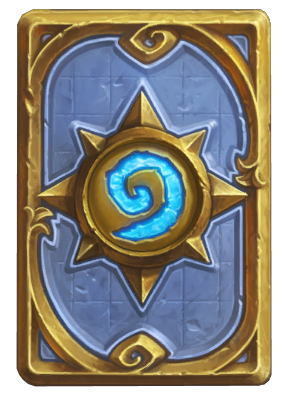
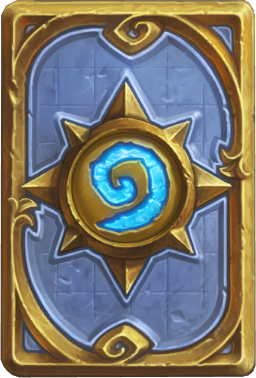
Fixed the card image for SearchByName Screen and bottom tab navigator thumbnails.

diff --git a/Screens/SearchByName.js b/Screens/SearchByName.js
@@ -6,9 +6,7 @@ import { options } from '../RequestOptionsAndDecks';
 
 export default function SearchByName({navigation}) {
    const [cardName, setCardName] = useState('');
-   const [cardImage, setCardImage] = useState(
-      'https://static.vecteezy.com/system/resources/previews/005/337/799/non_2x/icon-image-not-found-free-vector.jpg'
-   );
+   const [cardImage, setCardImage] = useState(require('../assets/cardBack2.png'));
    const [card, setCard] = useState({});
    const [loading, setLoading] = useState(false);
    const [request, setRequest] = useState(false);
@@ -17,7 +15,7 @@ export default function SearchByName({navigation}) {
    const requestAPI = async () => {
       //Start loading.
       setLoading(true);
-      setCardImage('https://static.vecteezy.com/system/resources/previews/005/337/799/non_2x/icon-image-not-found-free-vector.jpg');
+      setCardImage(require('../assets/cardBack2.png'));
       setRequest(false);
 
       //Verify card name.
@@ -32,7 +30,7 @@ export default function SearchByName({navigation}) {
                for(let i=0; i<data.length; i++){
                   if(data[i].hasOwnProperty('img')){
                      setCard(data[i]);
-                     setCardImage(data[i].img);
+                     setCardImage({ uri: data[i].img});
                      setRequest(true);
                      break;
                   }
@@ -74,8 +72,8 @@ export default function SearchByName({navigation}) {
                   style={ styles.cardConteiner }
                   onPress={ handleCardPress }>
                   <Image
-                     style={{ width: '80%', height: '80%' }}
-                     source={{ uri: cardImage }}
+                     style={ styles.cardImage }
+                     source={ cardImage }
                      resizeMode="contain"
                   />
                </TouchableOpacity>

diff --git a/Routes.js b/Routes.js
@@ -21,7 +21,7 @@ function BottomNavigator(){
                tabBarIcon: () => 
                   <Image 
                      source={require('./assets/cardBack.png')} 
-                     style={{width: 22, height: 33, resizeMode:'center'}}
+                     style={{width: 22, height: 28, resizeMode:'center'}}
                   />
                }}
                name="By Name"
@@ -46,7 +46,7 @@ function BottomNavigator(){
                tabBarIcon: () => 
                   <Image 
                      source={require('./assets/selected-hexagon.png')} 
-                     style={{width: 34, height: 33, resizeMode:'contain'}}
+                     style={{width: 28, height: 28, resizeMode:'contain'}}
                   />
                }}
                name="By Mana"

diff --git a/Styles/SearchByNameStyle.js b/Styles/SearchByNameStyle.js
@@ -12,6 +12,11 @@ const styles = StyleSheet.create({
       height: '75%',
       width: '100%',
    },
+   cardImage:{
+      width: '85%', 
+      height: '85%',
+      resizeMode: 'contain',
+   },
    input:{
       width: '90%',
       height: 40,
